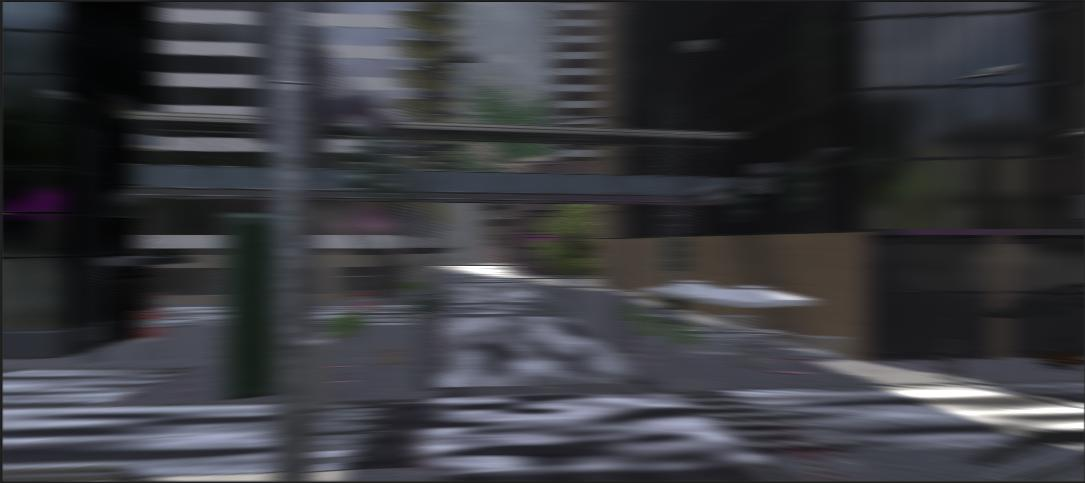
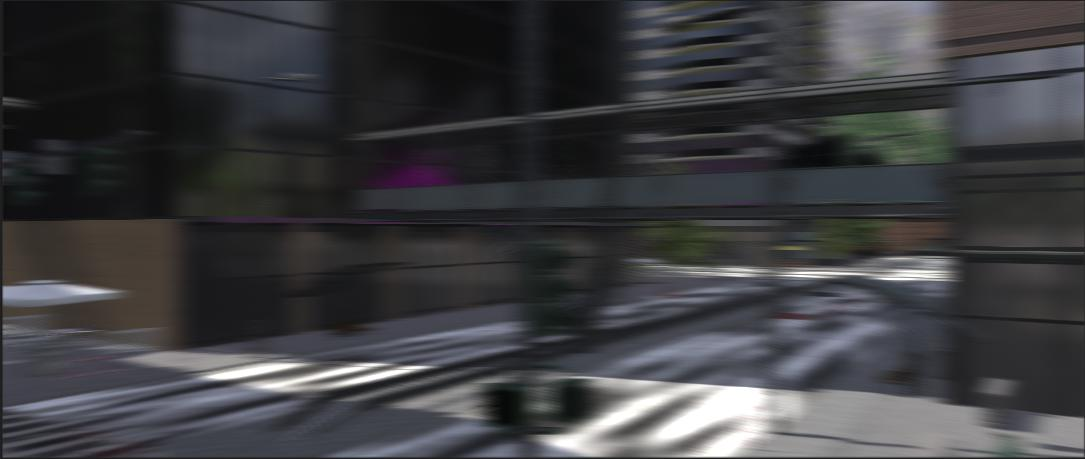
reset bool variables after acquisition end

diff --git a/Assets/Windridge City Assets/Scripts/ExtendedFlycam.cs b/Assets/Windridge City Assets/Scripts/ExtendedFlycam.cs
@@ -32,28 +32,32 @@ public class ExtendedFlycam : MonoBehaviour
     private float rotationX = 0.0f;
     private float rotationY = 0.0f;
 
-    float rotatePerUpdate;
-    Vector3 initialAngle;
-    int angle;
-    float currentRotate = 0;
-    int angleBetweenFrame = 45;
-    int angleBetweenGroundTruth = 40;
     Camera camera;
-    bool shot = true;
     string picturesPath;
-    bool capturing = false;
-    float offset = 0;
+
+    Vector3 initialAngle;
+    const int angleBetweenFrame = 45;
+    float rotatePerUpdate;
+    float currentRotate;
+    int angle;
+    int offset;
+
+    bool capturing_ground_truth;
+    bool capturing_blur;
 
 
     void Start()
     {
-        Screen.lockCursor = true;
-        initialAngle = GameObject.FindGameObjectWithTag("MainCamera").GetComponent<Transform>().rotation.eulerAngles;
+        initialAngle = transform.rotation.eulerAngles;
         angle = angleBetweenFrame;
-        camera = GameObject.FindGameObjectWithTag("MainCamera").GetComponent<Camera>();
-        camera.stereoSeparation = 0.064f; // Eye separation (IPD) of 64mm.
+        camera = GetComponent<Camera>();
+        camera.stereoSeparation = 0.064f; // Eye separation (IPD)
         picturesPath = Application.dataPath + "/Pictures/";
         rotatePerUpdate = Time.fixedDeltaTime * 360;
+        currentRotate = 0;
+        offset = 0;
+        capturing_ground_truth = false;
+        capturing_blur = false;
     }
 
     void RenderCurrentImage(string filePath)
@@ -126,31 +130,6 @@ public class ExtendedFlycam : MonoBehaviour
             RenderCurrentImage(picturesPath + "render.jpg");
         }
 
-        //TODO: disable blur motion during acquisition and enable it back after
-        // Launch groound truth acquisition
-        if (Input.GetKey(KeyCode.G))
-        {
-            Debug.Log("Genertating ground truth");
-            GetComponent<PostProcessLayer>().SetMotion(false);
-            transform.eulerAngles = initialAngle;
-            capturing = true;
-        }
-        // One step of ground truth acquisistion
-        if (capturing)
-        {
-            if(offset < 360)
-            {
-                RenderCurrentImage(picturesPath + "ground truth/angle_" + offset.ToString() + ".jpg");
-                transform.eulerAngles = new Vector3(initialAngle.x, initialAngle.y + offset, initialAngle.z);
-                offset += angleBetweenGroundTruth;
-            }
-            else
-            { 
-                capturing = false;
-                GetComponent<PostProcessLayer>().SetMotion(true);
-            }
-        }
-        
         // render 320 images of current camera view
         if (Input.GetKey(KeyCode.R))
         {
@@ -175,25 +154,62 @@ public class ExtendedFlycam : MonoBehaviour
             RenderTextureToJPG(equirect, picturesPath + "panorama/Equirectangular.jpg");
         }
 
-        // stop the rotation
-        if (Input.GetKey(KeyCode.S)) { shot = false; }
-
-        // Apply rotation and take a shot if current angle is adapted
-        if (shot)
+        // Launch groound truth acquisition
+        if (Input.GetKey(KeyCode.G))
         {
-            //transform.localRotation *= Quaternion.AngleAxis(rotatePerUpdate * cameraSensitivity * Time.deltaTime, Vector3.up);
-            transform.Rotate(0, rotatePerUpdate, 0);
-            currentRotate += rotatePerUpdate;
+            Debug.Log("Genertating ground truth");
+            GetComponent<PostProcessLayer>().SetMotion(false);
+            transform.eulerAngles = initialAngle;
+            capturing_ground_truth = true;
+        }
+
+        // One step of ground truth acquisistion
+        if (capturing_ground_truth)
+        {
+            if (offset < 360)
+            {
+                RenderCurrentImage(picturesPath + "ground truth/angle_" + offset.ToString() + ".jpg");
+                transform.eulerAngles = new Vector3(initialAngle.x, initialAngle.y + offset, initialAngle.z);
+                offset += angleBetweenFrame;
+            }
+            else
+            {
+                capturing_ground_truth = false;
+                GetComponent<PostProcessLayer>().SetMotion(true);
+                offset = 0;
+            }
+        }
+
+        // Launch blurred images acquisition
+        if (Input.GetKey(KeyCode.S))
+        {
+            Debug.Log("Generating blurred images");
+            capturing_blur = true;
+            initialAngle = transform.rotation.eulerAngles;
+        }
+
+        // Apply rotation and take a capturing_blur if current angle is adapted
+        if (capturing_blur)
+        {
             if (angle <= 360)
             {
                 if (currentRotate > angle)
                 {
-                    Debug.Log("angle: " + angle.ToString());
-                    RenderCurrentImage(picturesPath + "blurred images/render_" + angle.ToString() + ".jpg");
+                    RenderCurrentImage(picturesPath + "blurred images/render_" + (angle - 45).ToString() + ".jpg");
                     angle += angleBetweenFrame;
                 }
+
+                // Apply rotation
+                transform.Rotate(0, rotatePerUpdate, 0);
+                currentRotate += rotatePerUpdate;
             }
-            else { shot = false; }
+            else
+            {
+                // Reset angle for new acquisition
+                angle = angleBetweenFrame;
+                capturing_blur = false;
+                currentRotate = 0;
+            }
         }
     }
 }
